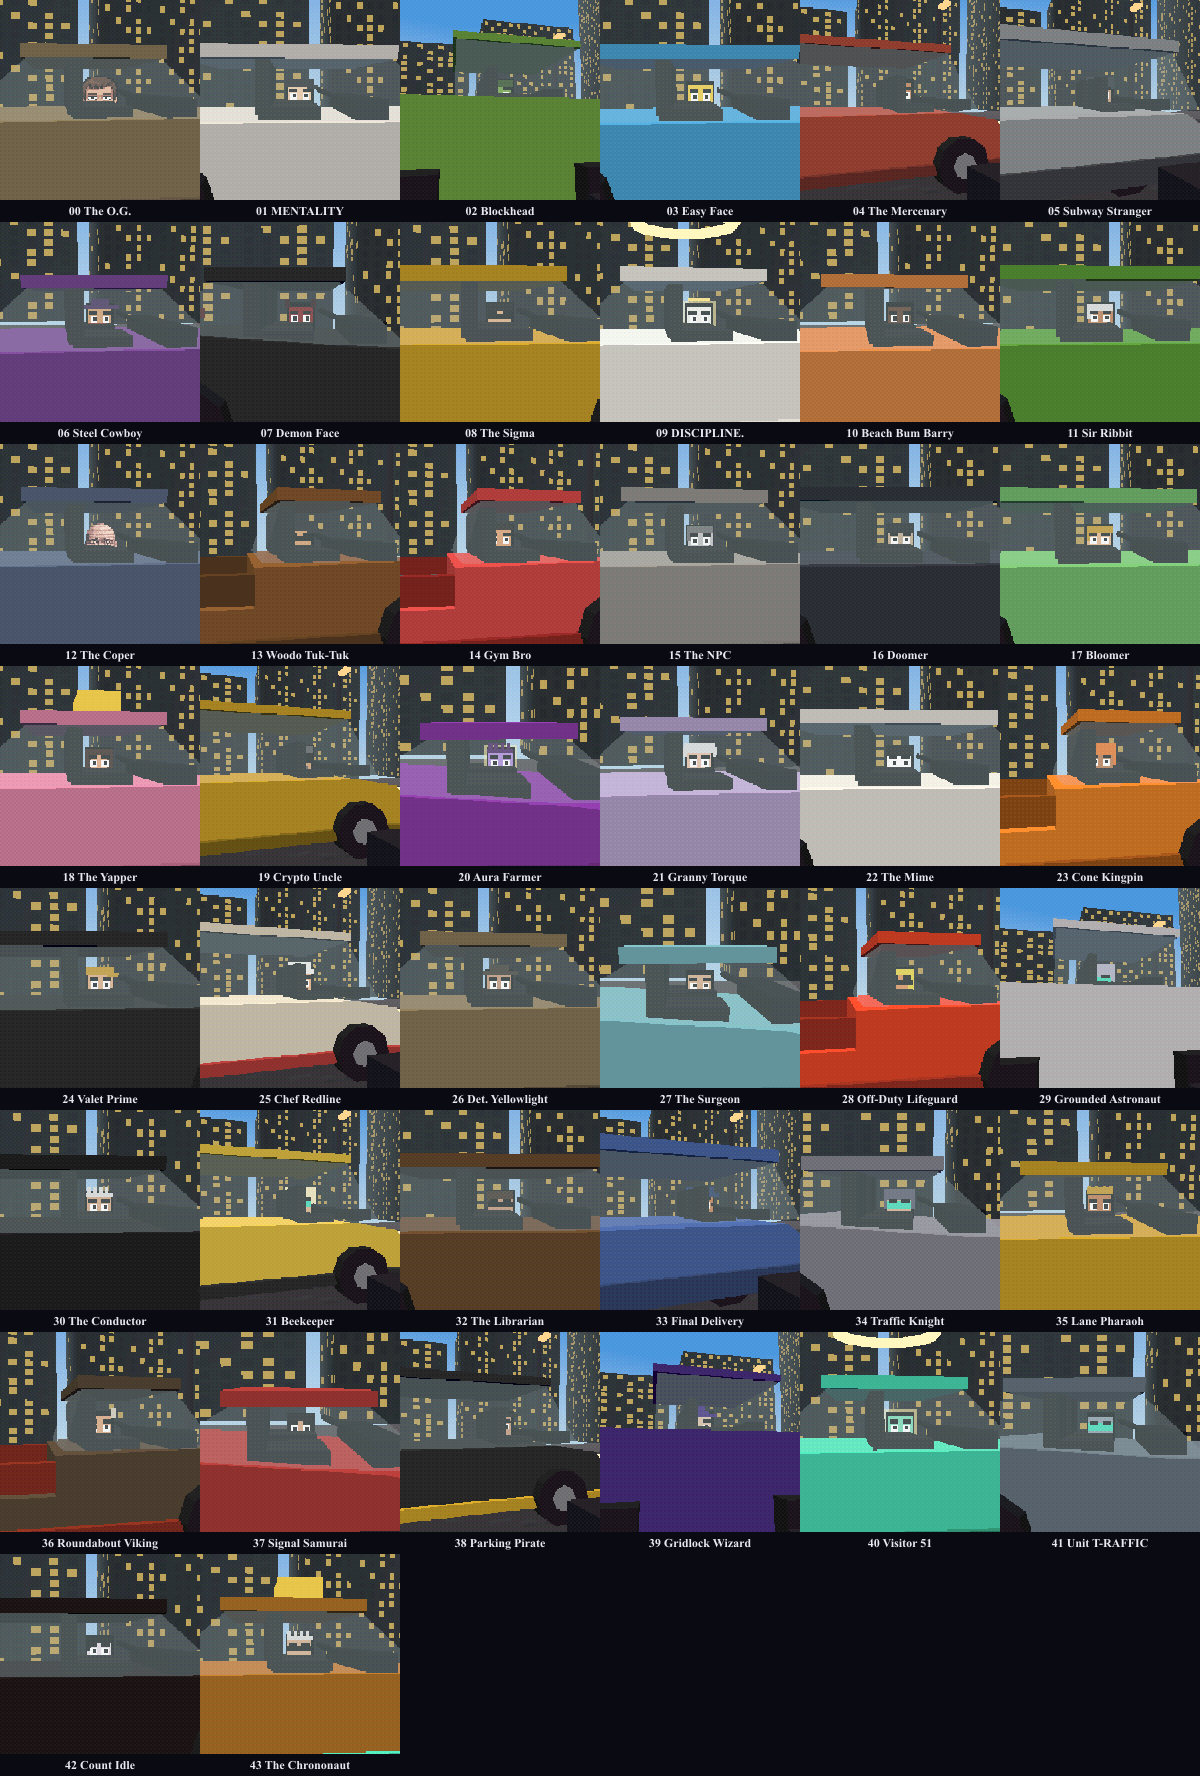
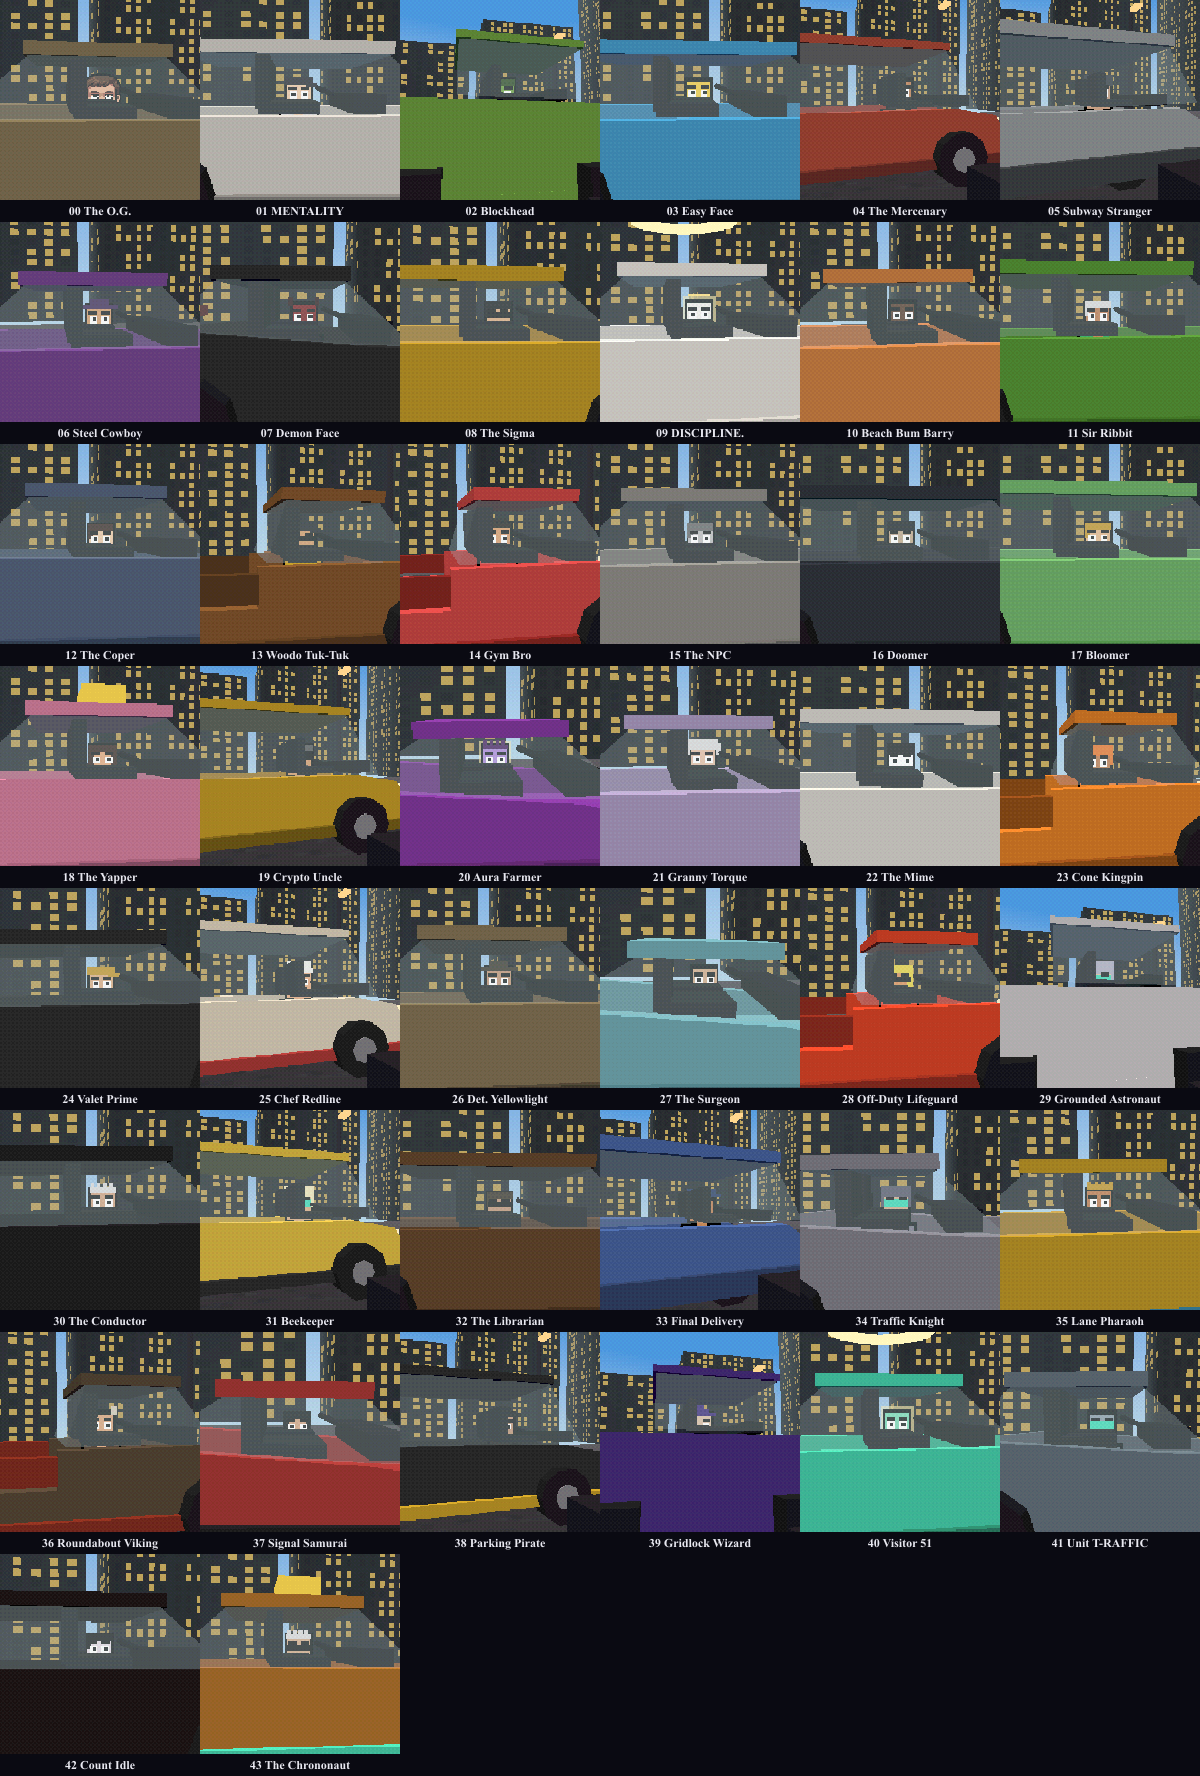
Open-top body (deck removed, roof restored) on all vehicles + player
Removed the solid top DECK the user circled (the brown slab at the
driver's waist) and rebuilt each body as an open tub (side walls +
floor); restored the roof/canopy (was wrongly removed before). Unibody
cars + player garage car verified open-cockpit with visible driver and
roof intact. Bus/cube rebuilt as open boxes too but bus driver needs a
follow-up tweak (flagged). Local only.

diff --git a/src/scene.ts b/src/scene.ts
@@ -604,11 +604,15 @@ export class GameScene {
     };
 
     if (s === 'cube') {
-      // blocky — the joke — but with a glass greenhouse so the driver shows
-      add(new THREE.BoxGeometry(1.9, 1.35, 3.4), body, 0, 0.875, 0);   // lower body, top ~1.55
-      interior();                                                       // seat/dash/wheel at the sill
-      add(new THREE.BoxGeometry(1.75, 0.78, 1.7), glass, 0, 1.94, 0.15); // greenhouse above the body
-      // cube roof cap removed — open-top
+      // blocky — the joke — open-top box: 4 walls + floor (no solid top deck)
+      add(new THREE.BoxGeometry(1.9, 0.16, 3.4), body, 0, 0.28, 0);      // floor
+      add(new THREE.BoxGeometry(0.16, 1.3, 3.4), body, -0.87, 0.85, 0);  // left wall
+      add(new THREE.BoxGeometry(0.16, 1.3, 3.4), body, 0.87, 0.85, 0);   // right wall
+      add(new THREE.BoxGeometry(1.9, 1.3, 0.16), body, 0, 0.85, 1.62);   // front wall
+      add(new THREE.BoxGeometry(1.9, 1.3, 0.16), body, 0, 0.85, -1.62);  // rear wall
+      interior();                                                       // seat/dash/wheel inside
+      add(new THREE.BoxGeometry(1.75, 0.78, 1.7), glass, 0, 1.94, 0.15); // greenhouse above
+      add(new THREE.BoxGeometry(1.82, 0.1, 1.78), body, 0, 2.33, 0.15);  // roof (kept)
       for (const [x, z] of [[-1, 1.2], [1, 1.2], [-1, -1.2], [1, -1.2]] as const)
         add(new THREE.BoxGeometry(0.5, 0.7, 0.7), tire, x * 1.0, 0.35, z);
       lights(0.9, 0.9);
@@ -616,11 +620,14 @@ export class GameScene {
     }
 
     if (s === 'metro') {
-      // city bus: sloped nose, long window band, driver up front
-      P([[-3.75, 0.35], [-3.75, 1.0], [3.35, 1.0], [3.75, 0.75], [3.75, 0.35]], 2.4, body);
+      // city bus, open-top body: side walls + floor (no solid top deck)
+      const bp: [number, number][] = [[-3.75, 0.35], [-3.75, 1.0], [3.35, 1.0], [3.75, 0.75], [3.75, 0.35]];
+      const bl = profileMesh(bp, 0.18, body); bl.position.x = -1.1; g.add(bl);
+      const br = profileMesh(bp, 0.18, body); br.position.x = 1.1; g.add(br);
+      add(new THREE.BoxGeometry(2.36, 0.18, 7.4), body, 0, 0.42, 0); // floor
       interior();
       P([[-3.55, 1.0], [-3.55, 1.8], [3.15, 1.8], [3.6, 1.05]], 2.3, glass);
-      // bus roof removed — open-top
+      P([[-3.6, 1.8], [-3.6, 1.94], [3.2, 1.94], [3.2, 1.8]], 2.42, body); // roof (kept)
       add(new THREE.BoxGeometry(2.5, 0.3, long * 0.98), trim, 0, 0.32, 0);
       wheels(0.42, long * 0.34, 0.42);
       lights(0.7, 0.7);
@@ -670,10 +677,14 @@ export class GameScene {
         roofSpan = [-0.66, 0.46];
     }
 
-    P(low, 1.9, body);
+    // open-top body: side walls + floor (NO solid top deck) so the interior
+    // bay/cockpit is exposed. Roof + windows are kept as the canopy above.
+    const sideL = profileMesh(low, 0.16, body); sideL.position.x = -0.87; g.add(sideL);
+    const sideR = profileMesh(low, 0.16, body); sideR.position.x = 0.87; g.add(sideR);
+    add(new THREE.BoxGeometry(1.74, 0.16, long * 0.96), body, 0, 0.4, 0); // floor pan
     interior();
     P(gls, 1.78, glass);
-    // roof removed — open-top so the interior bay + driver are exposed
+    P([[roofSpan[0], gls[1][1]], [roofSpan[0], gls[1][1] + 0.1], [roofSpan[1], gls[1][1] + 0.1], [roofSpan[1], gls[1][1]]], 1.84, body); // roof (kept)
     add(new THREE.BoxGeometry(2.02, 0.14, long * 0.96), trim, 0, 0.3, 0);
     wheels(s === 'wedge' ? 0.32 : 0.36);
     lights(s === 'wedge' ? 0.42 : 0.78, s === 'wedge' ? 0.5 : 0.78);